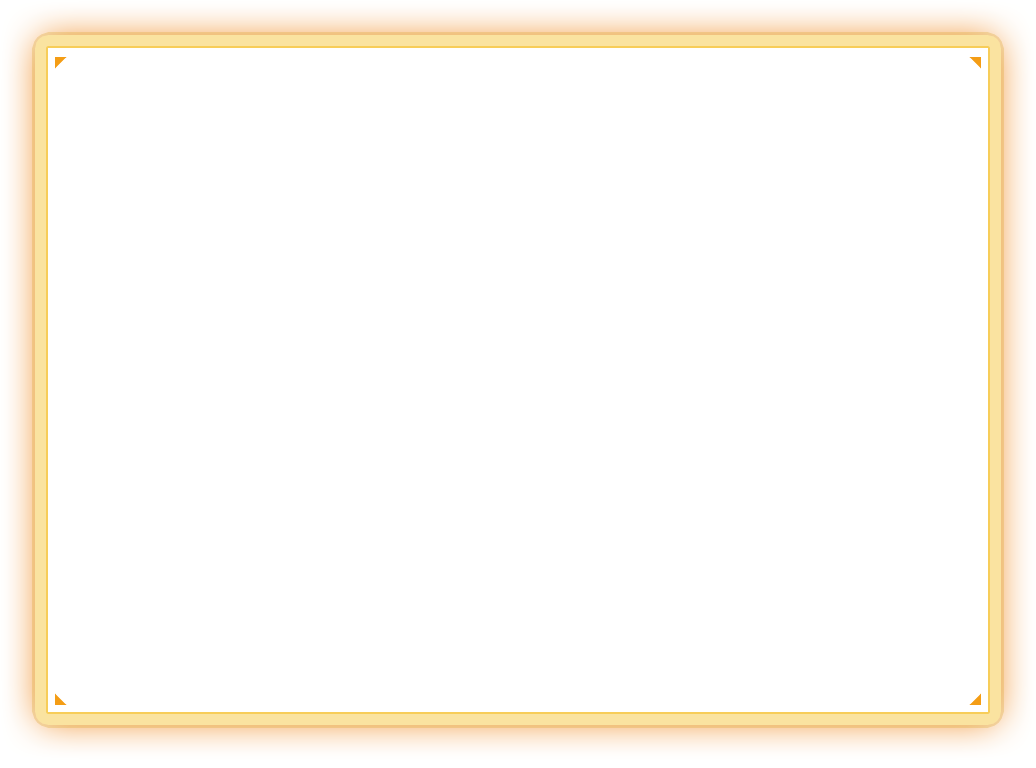
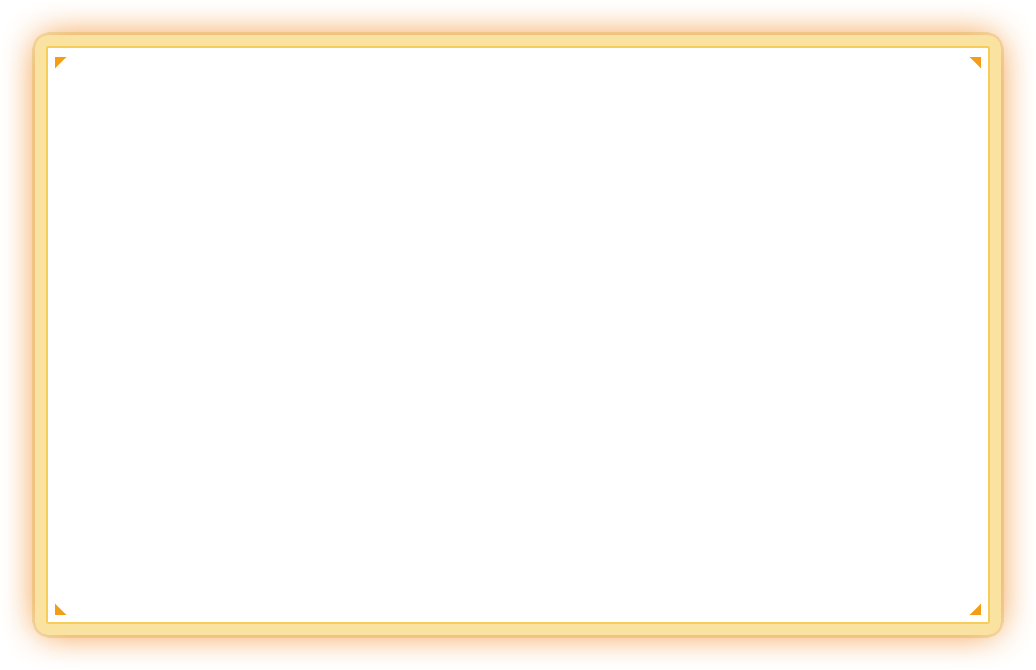
Use Line_chart_box2 for pending and locked chart frame

Changed region(s): [[0.0309, 0.0299, 0.9575, 0.0896], [0.0309, 0.9254, 0.9575, 0.9552]]

diff --git a/hi-lo-client/src/style.css b/hi-lo-client/src/style.css
@@ -282,17 +282,23 @@ html {
 }
 
 /* Open betting phase: show framed chart art */
-#game-container:not(.locked-layout):not(.result-layout) #tradingview-chart {
+#game-container:not(.locked-layout):not(.result-layout):not(.pending-layout) #tradingview-chart {
   background: url('/main_screen_UI/Line_chart_box1.png') no-repeat center / 100% 100%;
   border: none;
 }
 
-/* Locked layout mode: expand chart when round is locked */
+/* Locked layout mode (post-bonus in RESULT_PENDING): use alternate frame art */
 #game-container.locked-layout #tradingview-chart {
   height: 45%;
   top: var(--hud-chart-top, clamp(84px, 12%, 170px));
-  background: transparent;
-  border: 1px solid rgba(255, 255, 255, 0.08);
+  background: url('/main_screen_UI/Line_chart_box2.png') no-repeat center / 100% 100%;
+  border: none;
+}
+
+/* PENDING phase: keep alternate frame art even outside locked-layout class */
+#game-container.pending-layout #tradingview-chart {
+  background: url('/main_screen_UI/Line_chart_box2.png') no-repeat center / 100% 100%;
+  border: none;
 }
 
 /* Result display + round-start + locked intro: hide line chart */

diff --git a/hi-lo-client/src/scenes/HiLoScene.ts b/hi-lo-client/src/scenes/HiLoScene.ts
@@ -1333,6 +1333,12 @@ export class HiLoScene extends Phaser.Scene {
     container?.classList.toggle('result-layout', visible);
   }
 
+  private setPendingLayoutVisible(visible: boolean) {
+    if (typeof document === 'undefined') return;
+    const container = document.getElementById('game-container');
+    container?.classList.toggle('pending-layout', visible);
+  }
+
   private clearPendingRoundState() {
     if (this.pendingRoundStateTimer) {
       this.pendingRoundStateTimer.remove(false);
@@ -2147,6 +2153,7 @@ export class HiLoScene extends Phaser.Scene {
     this.clearPendingRoundState();
     this.round = state;
     this.roundText?.setText(`${state.id}`);
+    this.setPendingLayoutVisible(state.status === 'PENDING');
     const isNewRound = this.lastSeenRoundId !== state.id;
 
     if (this.chartRevealTimer && this.chartRevealExpectedStatus !== state.status) {
